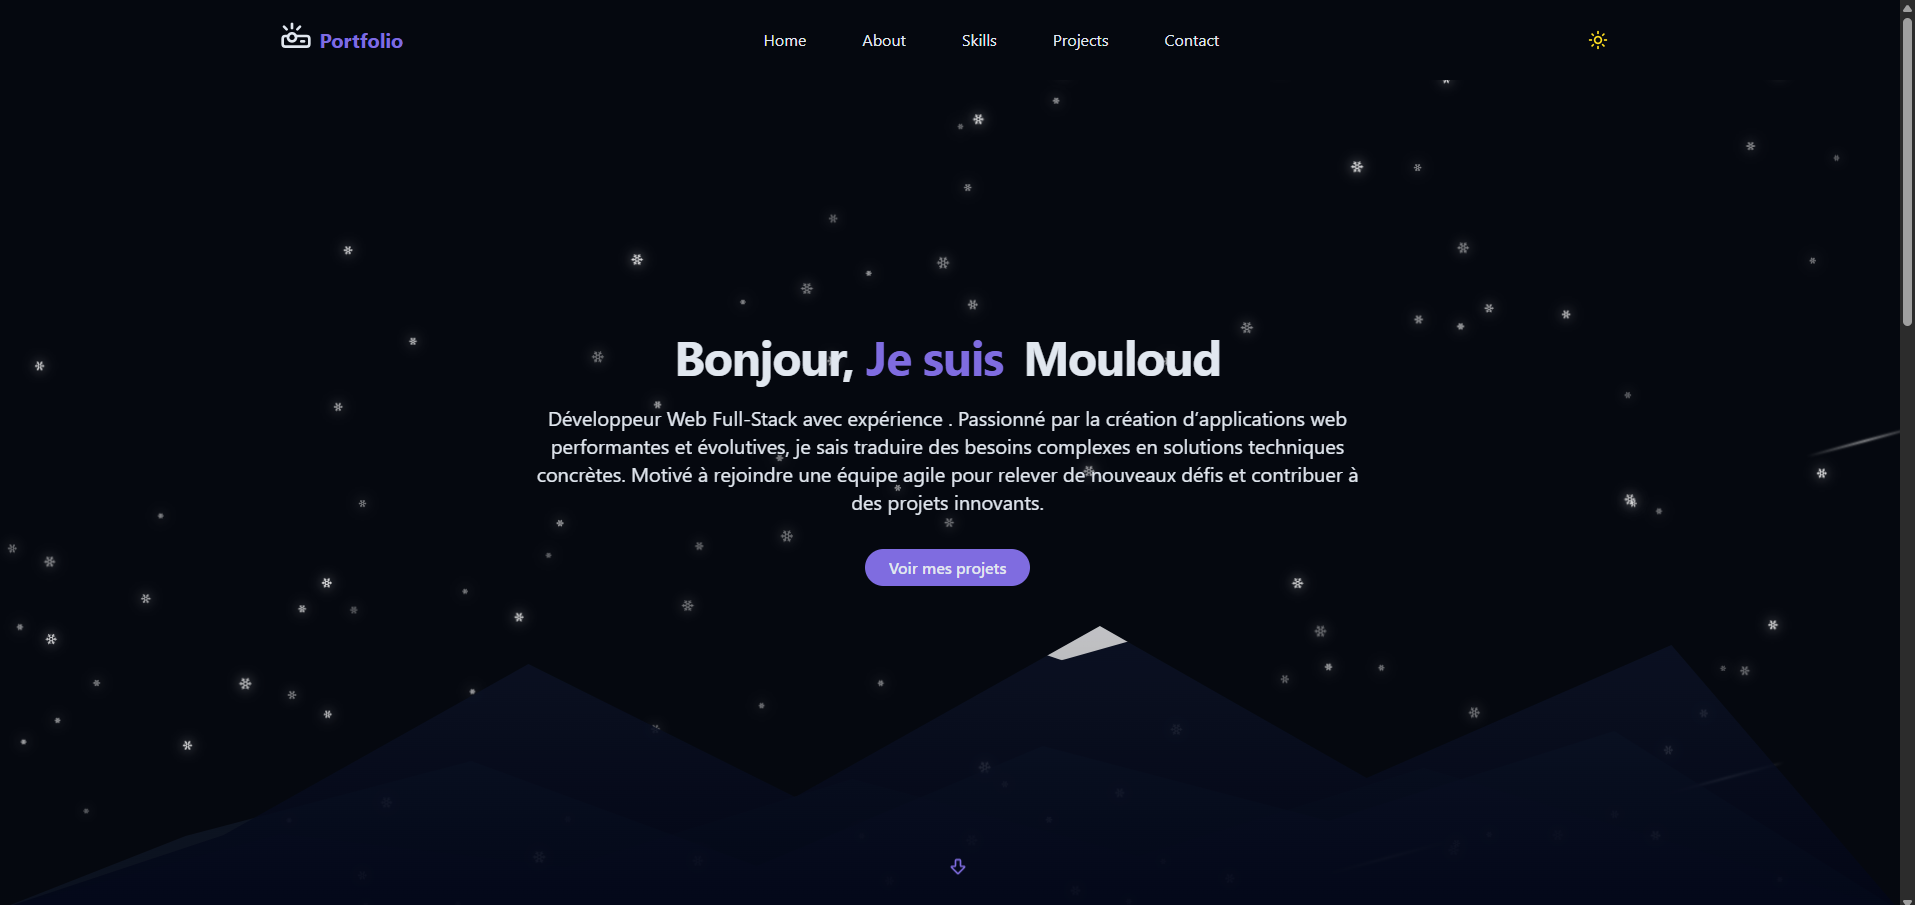
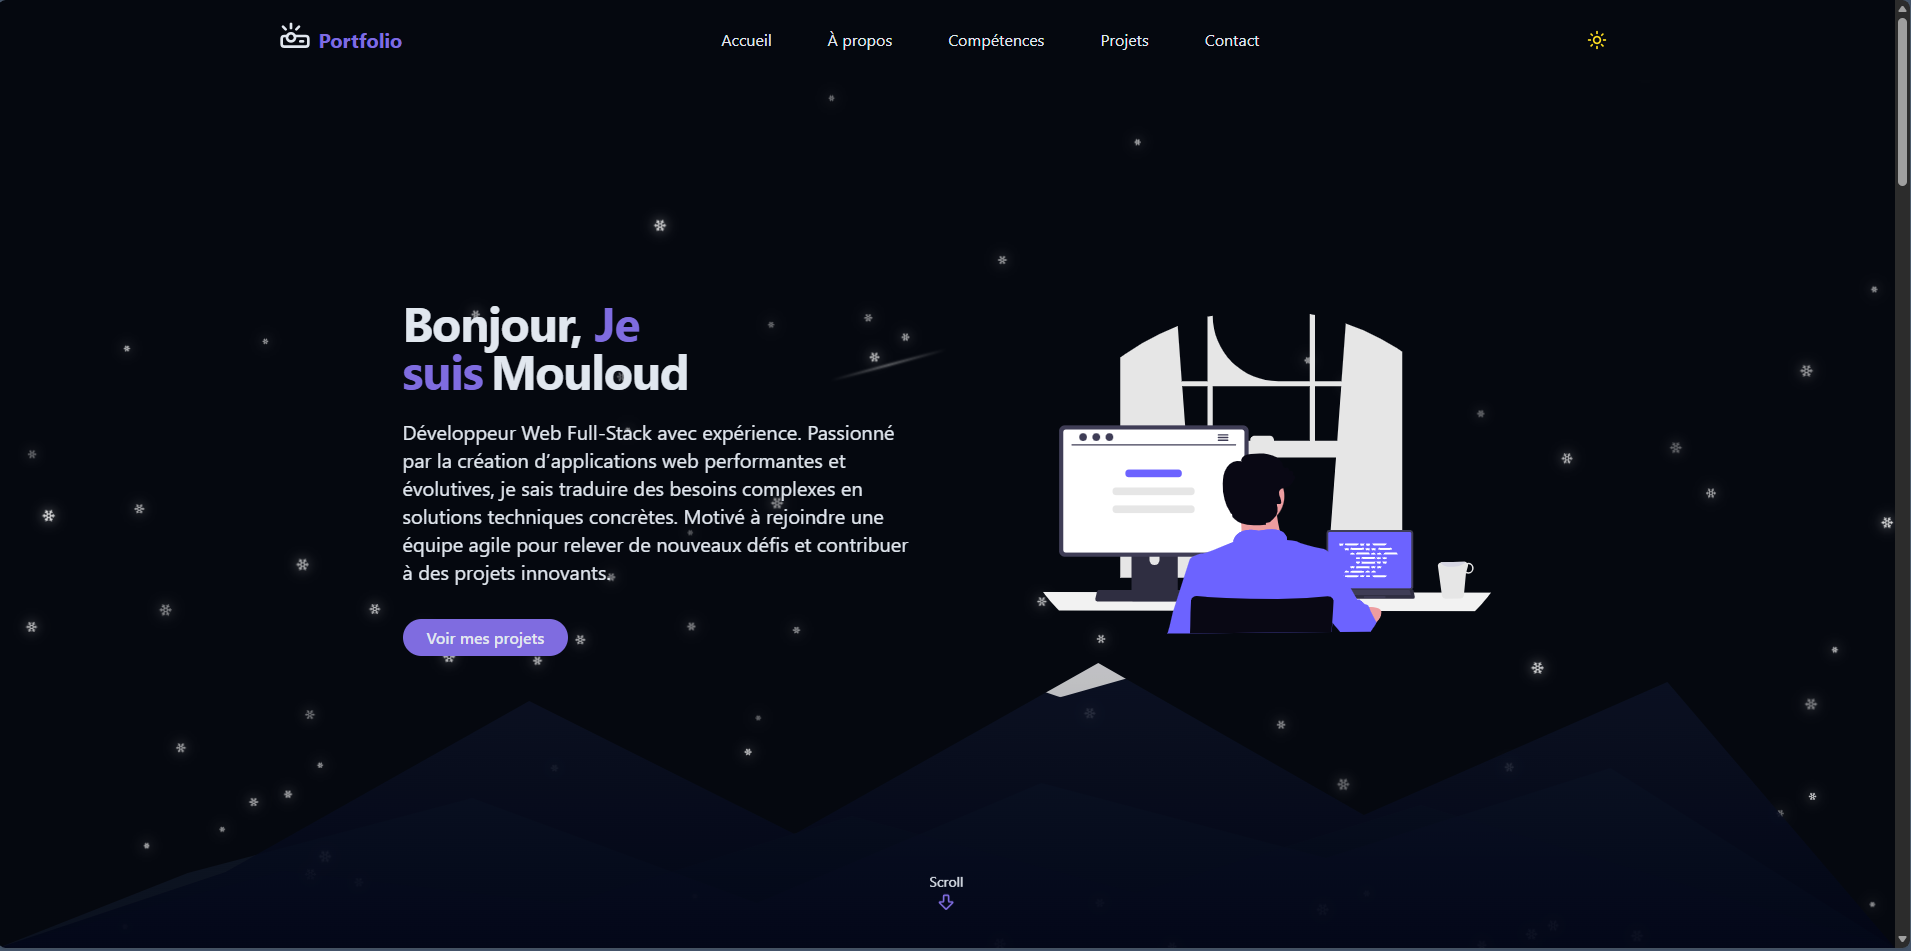
deploy

diff --git a/src/components/SkillsSection.jsx b/src/components/SkillsSection.jsx
@@ -2,140 +2,122 @@ import { useState } from "react";
 import { cn } from "@/lib/utils";
 
 const skills = [
-  // Frontend
+  // ================= FRONTEND =================
   {
     name: "HTML",
-    level: "Avancé",
-    description: "Structure sémantique, accessibilité, responsive",
-    progress: 85,
+    description:
+      "Maîtrise de la structure sémantique des pages web, accessibilité (ARIA) et intégration de layouts responsive.",
     category: "Frontend",
   },
   {
     name: "CSS",
-    level: "Avancé",
-    description: "Flexbox, Grid, animations, responsive design",
-    progress: 80,
+    description:
+      "Flexbox, CSS Grid, animations et responsive design pour créer des interfaces modernes et adaptatives.",
+    category: "Frontend",
+  },
+  {
+    name: "TailwindCSS",
+    description:
+      "Utilisation de classes utilitaires pour développer rapidement des interfaces UI modernes et responsives.",
     category: "Frontend",
   },
   {
     name: "JavaScript",
-    level: "Intermédiaire",
-    description: "ES6+, DOM, API REST, async/await",
-    progress: 70,
+    description:
+      "Manipulation du DOM, ES6+, appels API REST et gestion de logique asynchrone avec async/await.",
     category: "Frontend",
   },
   {
     name: "TypeScript",
-    level: "Intermédiaire",
-    description: "Typage, interfaces, composants React",
-    progress: 65,
+    description:
+      "Ajout de typage statique, interfaces et amélioration de la robustesse du code dans les projets React.",
     category: "Frontend",
   },
   {
     name: "React",
-    level: "Intermédiaire",
-    description: "Hooks, routing, composants réutilisables",
-    progress: 70,
+    description:
+      "Développement d'interfaces dynamiques avec composants réutilisables, hooks (useState, useEffect) et routing.",
+    category: "Frontend",
+  },
+  {
+    name: "Angular",
+    description:
+      "Développement d'interfaces dynamiques avec composants, services et architecture d'applications Angular.",
     category: "Frontend",
   },
 
-  // Backend
+  // ================= BACKEND =================
   {
     name: "PHP",
-    level: "Intermédiaire",
-    description: "Programmation backend, formulaires, API et logique serveur",
-    progress: 65,
+    description:
+      "Développement backend avec gestion des formulaires, logique serveur et création d’API simples.",
     category: "Backend",
   },
-  // Database
+  {
+    name: "Node.js",
+    description:
+      "Création d’API REST et développement backend JavaScript avec gestion des requêtes et middleware.",
+    category: "Backend",
+  },
+  {
+    name: "Express",
+    description:
+      "Construction d’API REST structurées avec routing, middleware et gestion des requêtes HTTP.",
+    category: "Backend",
+  },
 
+  // ================= DATABASE =================
   {
     name: "MySQL",
-    level: "Intermédiaire",
-    description: "Requêtes SQL et relations",
-    progress: 55,
+    description:
+      "Conception de bases de données relationnelles et exécution de requêtes SQL avec jointures et filtres.",
     category: "Database",
   },
   {
     name: "SQL",
-    level: "Intermédiaire",
-    description: "Jointures, filtres, requêtes",
-    progress: 60,
+    description:
+      "Écriture de requêtes avancées, gestion des relations et manipulation des données structurées.",
     category: "Database",
   },
 
-  // Tools
+  // ================= TOOLS =================
   {
     name: "Git/GitHub",
-    level: "Intermédiaire",
-    description: "Versioning et collaboration",
-    progress: 70,
+    description:
+      "Gestion de versions, collaboration en équipe et suivi des projets via Git et GitHub.",
     category: "Tools",
   },
   {
     name: "VS Code",
-    level: "Avancé",
-    description: "Extensions, debugging, productivité",
-    progress: 85,
+    description:
+      "Environnement de développement optimisé avec extensions, debugging et productivité améliorée.",
     category: "Tools",
   },
 ];
 
 const basic_skills = [
   {
-    name: "Angular",
-    level: "En apprentissage",
-    description: "Services, composants, architecture Angular",
-    progress: 50,
-    category: "Frontend",
-  },
-  {
     name: "Vue.js",
-    level: "En apprentissage",
-    description: "Bases des composants et réactivité",
-    progress: 55,
-    category: "Frontend",
-  },
-  {
-    name: "TailwindCSS",
-    level: "En apprentissage",
-    description: "UI responsive et rapide",
-    progress: 65,
+    description:
+      "En cours d'apprentissage : réactivité, directives et structure de composants Vue.",
     category: "Frontend",
   },
   {
     name: "MongoDB",
-    level: "En apprentissage",
-    description: "CRUD, collections, mongoose",
-    progress: 55,
+    description:
+      "En cours d'apprentissage : bases NoSQL, collections et opérations CRUD avec Mongoose.",
     category: "Database",
   },
   {
     name: ".NET",
-    level: "En apprentissage",
-    description: "API backend et architecture",
-    progress: 60,
+    description:
+      "En cours d'apprentissage : création d’API backend et compréhension de l’architecture .NET.",
     category: "Backend",
   },
   {
     name: "Laravel",
-    level: "En apprentissage",
-    description: "MVC, authentification, API",
-    progress: 60,
-    category: "Backend",
-  },
-  {
-    name: "Node.js",
-    level: "En apprentissage",
-    description: "Création d’API REST",
-    progress: 65,
-    category: "Backend",
-  },
-  {
-    name: "Express",
-    level: "En apprentissage",
-    description: "Routing, middleware, API",
-    progress: 60,
+    description:
+      "En cours d'apprentissage : architecture MVC, authentification et développement d’API REST.",
     category: "Backend",
   },
 ];

diff --git a/src/components/ProjectsSection.jsx b/src/components/ProjectsSection.jsx
@@ -5,28 +5,52 @@ const projects = [
   {
     id: 1,
     title: "Portfolio Personnel",
-    description: "Un site web pour présenter mes compétences et projets.",
+    description:
+      "Portfolio moderne développé avec React et Tailwind CSS pour présenter mes projets, compétences et expériences avec une interface responsive et des animations interactives.",
     image: "/projects/portfolio.png",
     tags: ["React", "Tailwind CSS"],
     demoUrl: "#",
     githubUrl: "#",
   },
+
   {
     id: 2,
-    title: "social-media-app",
+    title: "Shopping Card",
     description:
-      "Une application de réseau social pour le collège pour le partage d'articles, de documents et d'images.",
-    image: "/projects/social-maisonneuve.png",
-    tags: ["Laravel", "HTML", "CSS "],
+      "Application e-commerce frontend avec système de filtrage dynamique, recherche de produits et interface responsive développée en React.",
+    image: "/projects/shopping-card.png",
+    tags: ["React", "CSS"],
     demoUrl: "#",
     githubUrl: "#",
   },
 
   {
     id: 3,
+    title: "Airbnb Clone",
+    description:
+      "Reproduction de la page d’accueil d’Airbnb afin de pratiquer l’intégration UI moderne, le responsive design et l’organisation de composants React.",
+    image: "/projects/airbnb-clone.png",
+    tags: ["React", "Tailwind CSS"],
+    demoUrl: "#",
+    githubUrl: "#",
+  },
+
+  {
+    id: 4,
+    title: "Social Media App",
+    description:
+      "Plateforme collaborative développée pour un projet scolaire permettant le partage d’articles, documents et images entre étudiants.",
+    image: "/projects/social-maisonneuve.png",
+    tags: ["Laravel", "HTML", "CSS"],
+    demoUrl: "#",
+    githubUrl: "#",
+  },
+
+  {
+    id: 5,
     title: "Vino",
     description:
-      "Une application de gestion de cave à vin pour suivre les bouteilles, les dégustations et les notes.",
+      "Application de gestion de cave à vin permettant le suivi des bouteilles, des dégustations et des notes personnelles avec une interface dynamique.",
     image: "/projects/vino.png",
     tags: ["Laravel", "Vue.js", "CSS"],
     demoUrl: "#",
@@ -34,31 +58,32 @@ const projects = [
   },
 
   {
-    id: 4,
-    title: "clone pourvoiries du Québec",
+    id: 6,
+    title: "Clone Pourvoiries du Québec",
     description:
-      "Un clone de deux pages du site web des pourvoiries du Québec pour pratiquer mes compétences en développement web.",
+      "Reproduction de plusieurs pages du site Pourvoiries du Québec afin de pratiquer l’intégration responsive, le positionnement CSS et le développement frontend.",
     image: "/projects/pourvoirie-quebec.png",
-    tags: ["HTML", "CSS", "javascript"],
+    tags: ["HTML", "CSS", "JavaScript"],
     demoUrl: "#",
     githubUrl: "#",
   },
 
   {
-    id: 5,
-    title: "travel-agency",
+    id: 7,
+    title: "Travel Agency",
     description:
-      "Un site web pour une agence de voyage fictive, avec des pages de destination, d'ajout de destination, de modification et de suppression.",
+      "Application web de gestion de destinations touristiques avec fonctionnalités d’ajout, modification et suppression de contenu.",
     image: "/projects/travel-agency.png",
-    tags: ["React.js", "HTML", "CSS"],
+    tags: ["React", "HTML", "CSS"],
     demoUrl: "#",
     githubUrl: "#",
   },
+
   {
-    id: 6,
-    title: "lord-stampee",
+    id: 8,
+    title: "Lord Stampee",
     description:
-      "Un projet de développement d'une application web pour la gestion d'une boutique en ligne de timbres.",
+      "Projet de boutique en ligne pour la gestion et la vente de timbres avec fonctionnalités de catalogue, navigation et gestion de contenu.",
     image: "/projects/Lord-stampee.png",
     tags: ["PHP", "HTML", "CSS"],
     demoUrl: "#",